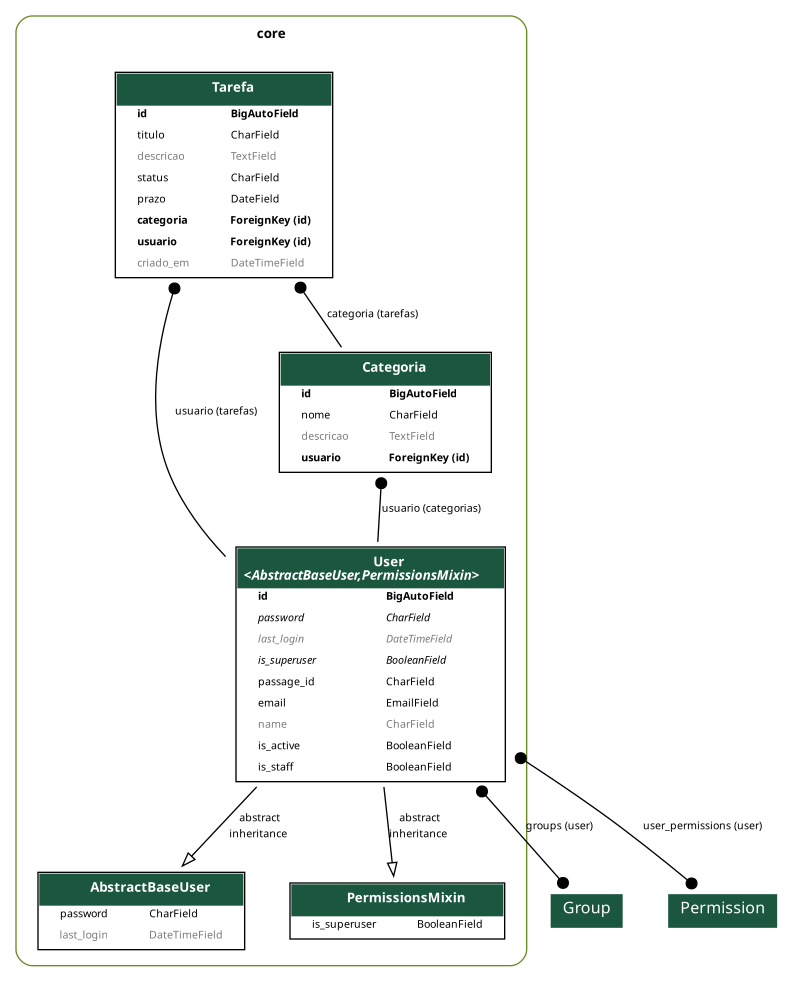
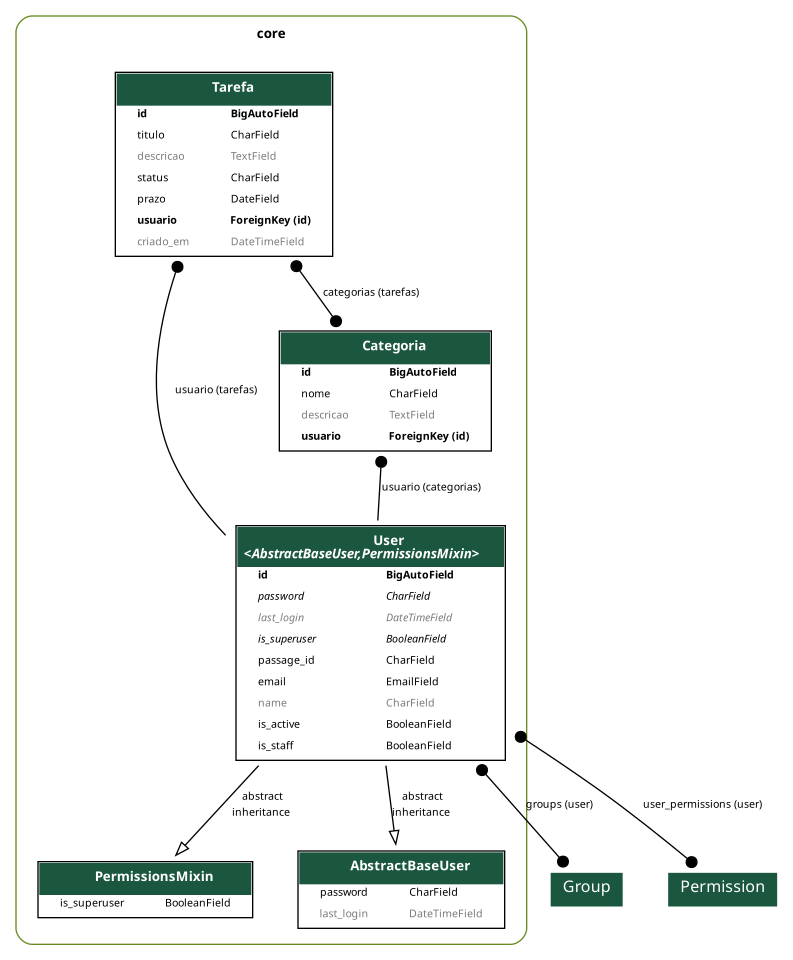
refactor: update Tarefa model to use ManyToMany relationship for categorias

diff --git a/core/models/tarefa.py b/core/models/tarefa.py
@@ -3,19 +3,20 @@ from .user import User
 from .categoria import Categoria
 import datetime
 
+
 class Tarefa(models.Model):
     class StatusTarefa(models.TextChoices):
         PENDENTE = "pendente"
         EM_ANDAMENTO = "em_andamento"
         CONCLUIDA = "concluida"
-    
+
     titulo = models.CharField(max_length=255)
     descricao = models.TextField(blank=True)
-    status = models.CharField(max_length=15,choices=StatusTarefa.choices, default=StatusTarefa.PENDENTE)
+    status = models.CharField(max_length=15, choices=StatusTarefa.choices, default=StatusTarefa.PENDENTE)
     prazo = models.DateField()
-    categoria = models.ForeignKey(Categoria, on_delete=models.CASCADE, related_name="tarefas")
+    categorias = models.ManyToManyField(Categoria, related_name="tarefas")
     usuario = models.ForeignKey(User, on_delete=models.PROTECT, related_name="tarefas")
     criado_em = models.DateTimeField(auto_now_add=True)
 
     def __str__(self):
-        return f"{self.titulo} | {self.categoria}"
+        return f"{self.titulo} | {', '.join([categoria.nome for categoria in self.categorias.all()])}"

diff --git a/core/migrations/0009_remove_tarefa_categoria_tarefa_categorias.py b/core/migrations/0009_remove_tarefa_categoria_tarefa_categorias.py
@@ -1,0 +1,22 @@
+# Generated by Django 5.1.2 on 2025-02-05 21:09
+
+from django.db import migrations, models
+
+
+class Migration(migrations.Migration):
+
+    dependencies = [
+        ("core", "0008_alter_tarefa_prazo"),
+    ]
+
+    operations = [
+        migrations.RemoveField(
+            model_name="tarefa",
+            name="categoria",
+        ),
+        migrations.AddField(
+            model_name="tarefa",
+            name="categorias",
+            field=models.ManyToManyField(related_name="tarefas", to="core.categoria"),
+        ),
+    ]
